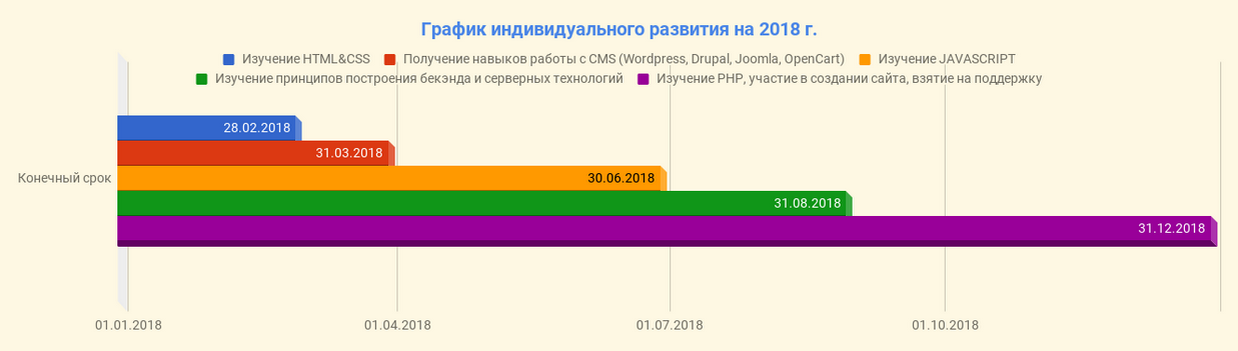
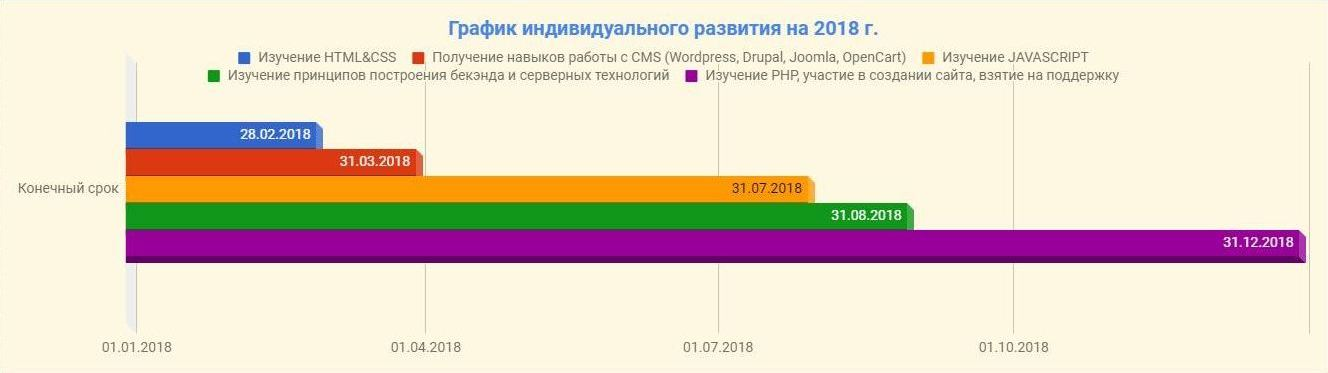
Изменение графика

diff --git a/index.html b/index.html
@@ -328,7 +328,7 @@
             </table>
         </div>
         <div class="grafik">
-            <a href="images/grafik.png"><img src="images/grafik.png" alt="grafik"></a>
+            <a href="images/grafik.png"><img src="images/grafik.jpg" alt="grafik"></a>
         </div>
     </main>
     <footer>
